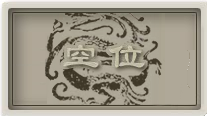
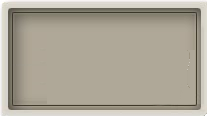
empty seat is too ugly...

Changed region(s): [[0.2029, 0.1034, 0.7826, 0.9052]]

diff --git a/Source/UI/Controls/Views/Lobby/SeatView.xaml b/Source/UI/Controls/Views/Lobby/SeatView.xaml
@@ -126,77 +126,71 @@
     </UserControl.Resources>	
     <Grid x:Name="LayoutRoot">
     	<Image Source="/Resources;component/Images/Lobby/Seat/empty.png" Stretch="Fill"/>
+    	<Image Source="/Resources;component/Images/Lobby/Seat/pattern.png" Stretch="Fill"/>
     	<Grid x:Name="gridTakenSeat" Visibility="{Binding IsTaken, Converter={StaticResource boolToVisibilityConverter}}">
-	        <Image Source="/Resources;component/Images/Lobby/Seat/bg0.png" Stretch="Fill"/>
-	        <Grid  HorizontalAlignment="Left" VerticalAlignment="Top" Margin="7,7,0,0" Width="75" Height="75" >
-	            <Image Source="/Resources;component/Images/Lobby/Seat/photo0.gif" Stretch="Fill" />
-	            <Image Source="/Resources;component/Images/Lobby/Seat/bd0.png" Stretch="Fill" />
-	        </Grid>
-	        <Image Margin="4,0,0,4" VerticalAlignment="Bottom" HorizontalAlignment="Left" Source="/Resources;component/Images/Lobby/Seat/win.png" Stretch="None" RenderTransformOrigin="0,1">
-	            <Image.RenderTransform>
-	                <TransformGroup>
-	                    <ScaleTransform ScaleX="0.6" ScaleY="0.6"/>
-	                    <SkewTransform/>
-	                    <RotateTransform/>
-	                    <TranslateTransform/>
-	                </TransformGroup>
-	            </Image.RenderTransform>
-	        </Image>
-	        <Image Margin="0,0,4,4" VerticalAlignment="Bottom" HorizontalAlignment="Right" Source="/Resources;component/Images/Lobby/Seat/quit.png" Stretch="None" RenderTransformOrigin="1,1">
-	            <Image.RenderTransform>
-	                <TransformGroup>
-	                    <ScaleTransform ScaleX="0.6" ScaleY="0.6"/>
-	                    <SkewTransform/>
-	                    <RotateTransform/>
-	                    <TranslateTransform/>
-	                </TransformGroup>
-	            </Image.RenderTransform>
-	        </Image>
-	        <Grid Height="13" VerticalAlignment="Bottom" Margin="24,0,24,13.5">
-	            <Border CornerRadius="15,15,0,0" ClipToBounds="True" BorderThickness="0,0,0,1" BorderBrush="#FF9D9D9D">
-	                <Border BorderThickness="1,1,0,0" Background="#FF2F363E" BorderBrush="Black" CornerRadius="15,15,0,0" ClipToBounds="True">
-	                    <Border.Effect>
-	                        <BlurEffect Radius="5" />
-	                    </Border.Effect>	
-	                </Border>
-	            </Border>
-	            <ProgressBar Style="{DynamicResource winProgressBarStyle}" Value="46" />
-	            <ProgressBar Value="20" Style="{DynamicResource quitProgressBarStyle}" />
-	            <Border Background="#FF2F363E" CornerRadius="0,0,8,8" ClipToBounds="True" BorderThickness="1,0,1,1" Margin="12.5,0,0,-8.501" Height="10" VerticalAlignment="Bottom" HorizontalAlignment="Left" Width="34.5">
-	                <Border.BorderBrush>
-	                    <LinearGradientBrush EndPoint="0.5,1" StartPoint="0.5,0">
-	                        <GradientStop Color="#FFA1A1A1" Offset="1"/>
-	                        <GradientStop Color="Black"/>
-	                    </LinearGradientBrush>
-	                </Border.BorderBrush>
-	                <TextBlock Text="46%" FontFamily="Arial" Foreground="Lime" FontSize="9" HorizontalAlignment="Center" Margin="0,0,0,0" />
-	            </Border>
-	            <Border Background="#FF2F363E" CornerRadius="0,0,8,8" ClipToBounds="True" BorderThickness="1,0,1,1" Margin="0,0,12,-8.501" Height="10" VerticalAlignment="Bottom" HorizontalAlignment="Right" Width="34.5">
-	                <Border.BorderBrush>
-	                    <LinearGradientBrush EndPoint="0.5,1" StartPoint="0.5,0">
-	                        <GradientStop Color="#FFA1A1A1" Offset="1"/>
-	                        <GradientStop Color="Black"/>
-	                    </LinearGradientBrush>
-	                </Border.BorderBrush>
-	                <TextBlock Text="20%" FontFamily="Arial" Foreground="Red" FontSize="9" HorizontalAlignment="Center" Margin="0,0,0,0" />
-	            </Border>						
-	        </Grid>	
-	        <RichTextBox Margin="86,7,8,34" FontSize="15" FontFamily="KaiTi" Background="Transparent" Foreground="White" BorderBrush="#FFC7B564" IsHitTestVisible="False">
-	            <FlowDocument TextAlignment="Center" LineHeight="10">
-	                <Paragraph>
-	                    <Run Text="Lv. 2" FontFamily="Arial"  FontSize="13"/>
-	                </Paragraph>				
-	                <Paragraph>
-	                    <Run Text="三国杀爱好者"/>
-	                </Paragraph>
-	                <Paragraph>
-	                    <Run Text="技巧度："/>
-	                    <Run Text="12" FontFamily="Arial" />
-	                </Paragraph>
-	            </FlowDocument>
-	        </RichTextBox>
-	        <Path Data="M86,25.5 L199,25.5" Height="1" Margin="86,28.835,7,0" Stretch="Fill" Stroke="#FFC7B564" VerticalAlignment="Top"/>
-	        <Path Data="M86,25.5 L199,25.5" Height="1" Margin="86,54.181,7,0" Stretch="Fill" Stroke="#FFC7B564" VerticalAlignment="Top"/>
-	    </Grid>    	
+    		<Image Source="/Resources;component/Images/Lobby/Seat/bg0.png" Stretch="Fill"/>
+    		<Grid  HorizontalAlignment="Left" VerticalAlignment="Top" Margin="7,7,0,0" Width="75" Height="75" >
+    			<Image Source="/Resources;component/Images/Lobby/Seat/photo0.gif" Stretch="Fill" />
+    			<Image Source="/Resources;component/Images/Lobby/Seat/bd0.png" Stretch="Fill" />
+    		</Grid>
+    		<Image Margin="4,0,0,4" VerticalAlignment="Bottom" HorizontalAlignment="Left" Source="/Resources;component/Images/Lobby/Seat/win.png" Stretch="None" RenderTransformOrigin="0,1">
+    			<Image.RenderTransform>
+    				<TransformGroup>
+    					<ScaleTransform ScaleX="0.6" ScaleY="0.6"/>
+    					<SkewTransform/>
+    					<RotateTransform/>
+    					<TranslateTransform/>
+    				</TransformGroup>
+    			</Image.RenderTransform>
+    		</Image>
+    		<Image Margin="0,0,4,4" VerticalAlignment="Bottom" HorizontalAlignment="Right" Source="/Resources;component/Images/Lobby/Seat/quit.png" Stretch="None" RenderTransformOrigin="1,1">
+    			<Image.RenderTransform>
+    				<TransformGroup>
+    					<ScaleTransform ScaleX="0.6" ScaleY="0.6"/>
+    					<SkewTransform/>
+    					<RotateTransform/>
+    					<TranslateTransform/>
+    				</TransformGroup>
+    			</Image.RenderTransform>
+    		</Image>
+    		<Grid Height="13" VerticalAlignment="Bottom" Margin="24,0,24,13.5">
+    			<Border CornerRadius="15,15,0,0" ClipToBounds="True" BorderThickness="0,0,0,1" BorderBrush="#FF9D9D9D">
+    				<Border BorderThickness="1,1,0,0" Background="#FF2F363E" BorderBrush="Black" CornerRadius="15,15,0,0" ClipToBounds="True">
+    					<Border.Effect>
+    						<BlurEffect Radius="5" />
+    					</Border.Effect>	
+    				</Border>
+    			</Border>
+    			<ProgressBar Style="{DynamicResource winProgressBarStyle}" Value="46" />
+    			<ProgressBar Value="20" Style="{DynamicResource quitProgressBarStyle}" />
+    			<Border Background="#FF2F363E" CornerRadius="0,0,8,8" ClipToBounds="True" BorderThickness="1,0,1,1" Margin="12.5,0,0,-8.501" Height="10" VerticalAlignment="Bottom" HorizontalAlignment="Left" Width="34.5">
+    				<Border.BorderBrush>
+    					<LinearGradientBrush EndPoint="0.5,1" StartPoint="0.5,0">
+    						<GradientStop Color="#FFA1A1A1" Offset="1"/>
+    						<GradientStop Color="Black"/>
+    					</LinearGradientBrush>
+    				</Border.BorderBrush>
+    				<TextBlock Text="46%" FontFamily="Arial" Foreground="Lime" FontSize="9" HorizontalAlignment="Center" Margin="0,0,0,0" />
+    			</Border>
+    			<Border Background="#FF2F363E" CornerRadius="0,0,8,8" ClipToBounds="True" BorderThickness="1,0,1,1" Margin="0,0,12,-8.501" Height="10" VerticalAlignment="Bottom" HorizontalAlignment="Right" Width="34.5">
+    				<Border.BorderBrush>
+    					<LinearGradientBrush EndPoint="0.5,1" StartPoint="0.5,0">
+    						<GradientStop Color="#FFA1A1A1" Offset="1"/>
+    						<GradientStop Color="Black"/>
+    					</LinearGradientBrush>
+    				</Border.BorderBrush>
+    				<TextBlock Text="20%" FontFamily="Arial" Foreground="Red" FontSize="9" HorizontalAlignment="Center" Margin="0,0,0,0" />
+    			</Border>						
+    		</Grid>	
+    		<RichTextBox Margin="86,7,8,34" FontSize="15" FontFamily="KaiTi" Background="Transparent" Foreground="White" BorderBrush="#FFC7B564" IsHitTestVisible="False">
+    			<FlowDocument TextAlignment="Center" LineHeight="10">
+    				<Paragraph><Run Text="Lv. 2" FontFamily="Arial"  FontSize="13"/></Paragraph>				
+    				<Paragraph><Run Text="三国杀爱好者"/></Paragraph>
+    				<Paragraph><Run Text="技巧度："/><Run Text=" "/><Run Text="12" FontFamily="Arial" /></Paragraph>
+    			</FlowDocument>
+    		</RichTextBox>
+    		<Path Data="M86,25.5 L199,25.5" Height="1" Margin="86,28.835,7,0" Stretch="Fill" Stroke="#FFC7B564" VerticalAlignment="Top"/>
+    		<Path Data="M86,25.5 L199,25.5" Height="1" Margin="86,54.181,7,0" Stretch="Fill" Stroke="#FFC7B564" VerticalAlignment="Top"/>
+    	</Grid>    	
 	</Grid>
 </UserControl>
